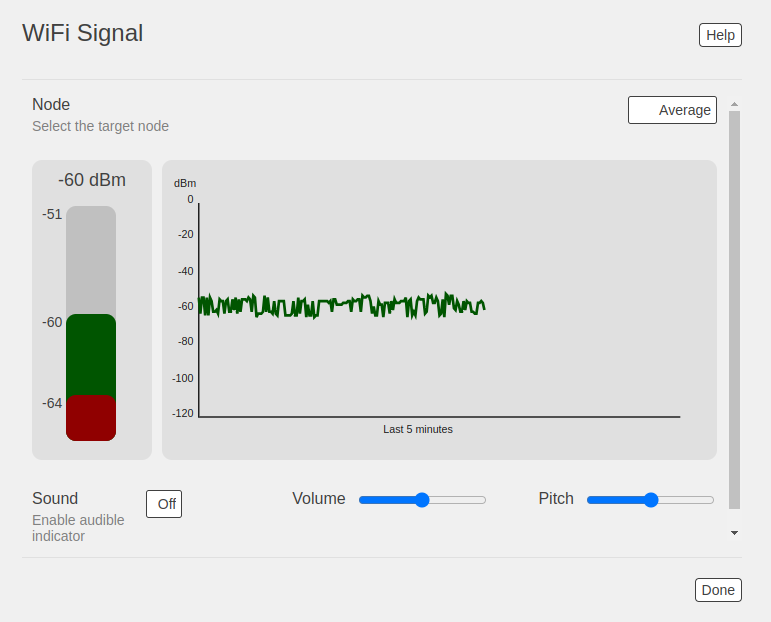
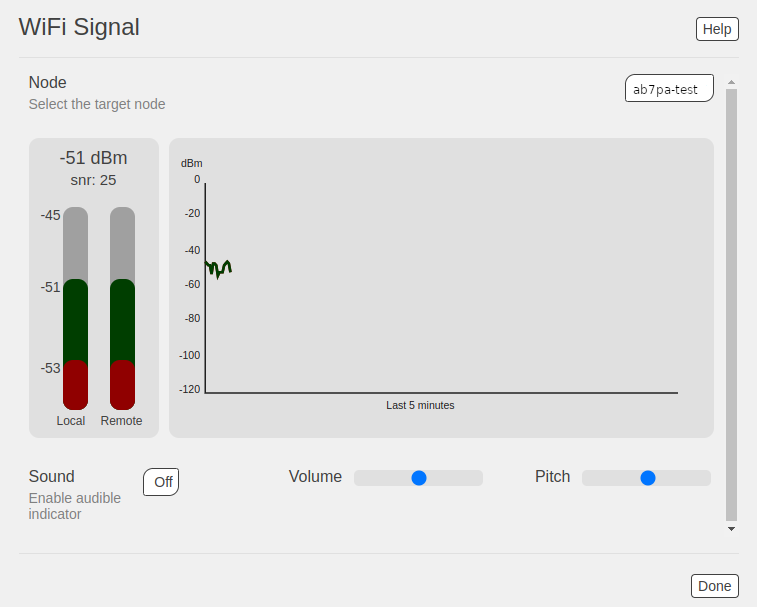
add remote wifi signal to tool (#419)

diff --git a/arednGettingStarted/node_admin.rst b/arednGettingStarted/node_admin.rst
@@ -805,7 +805,7 @@ WiFi Signal
 
   |
 
-  The colored bars on the left display the worst and best signal values that are seen during the monitoring interval. The instantaneous signal value is shown above the colored bars on the left. All of these values will be adjust over time as new data is obtained.
+  The colored bars on the left display the worst and best signal values that are seen during the monitoring interval. The instantaneous signal value is shown above the colored bars on the left. Both the local node and remote node view of the signal levels will be displayed on the bars and the graph. All of these values will be adjusted over time as new data is obtained.
 
   Below the line graph there are controls that allow you to enable an audio representation of the instantaneous signal value. Click in the field to the right of the *Sound* label and select ``OFF`` or ``ON`` to enable or disable the sound. You can control the volume and pitch of the tone using the horizontal sliders. The higher the pitch, the better the signal level. When you are finished studying the results, click the ``Done`` button to return to the status display.
 
